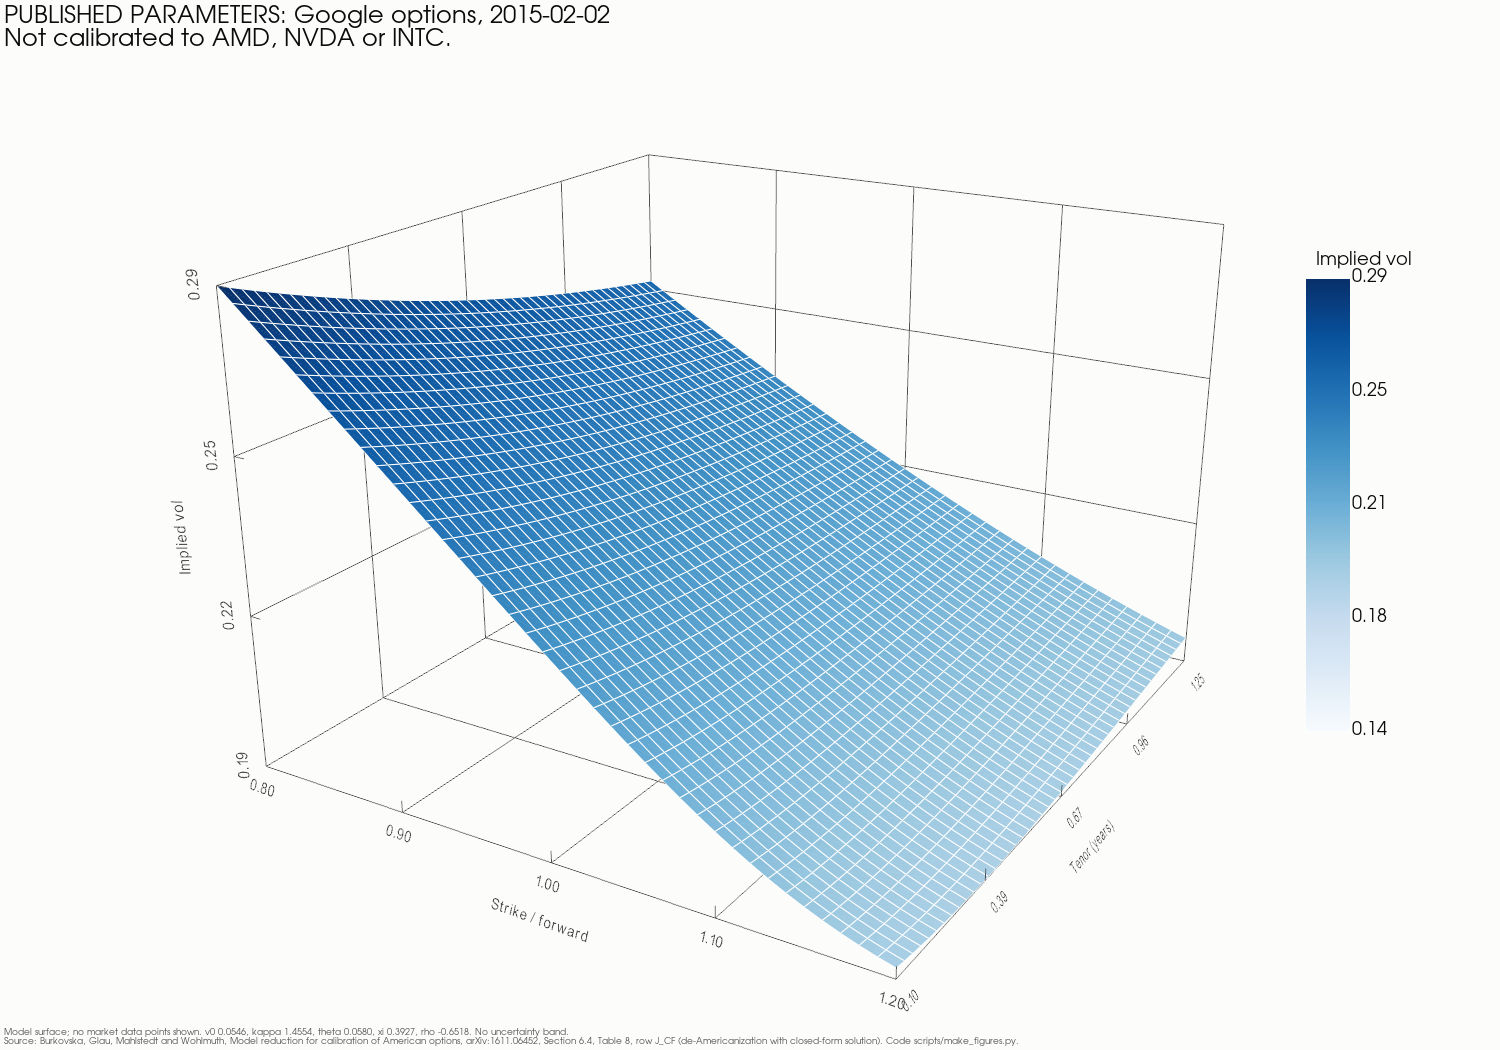
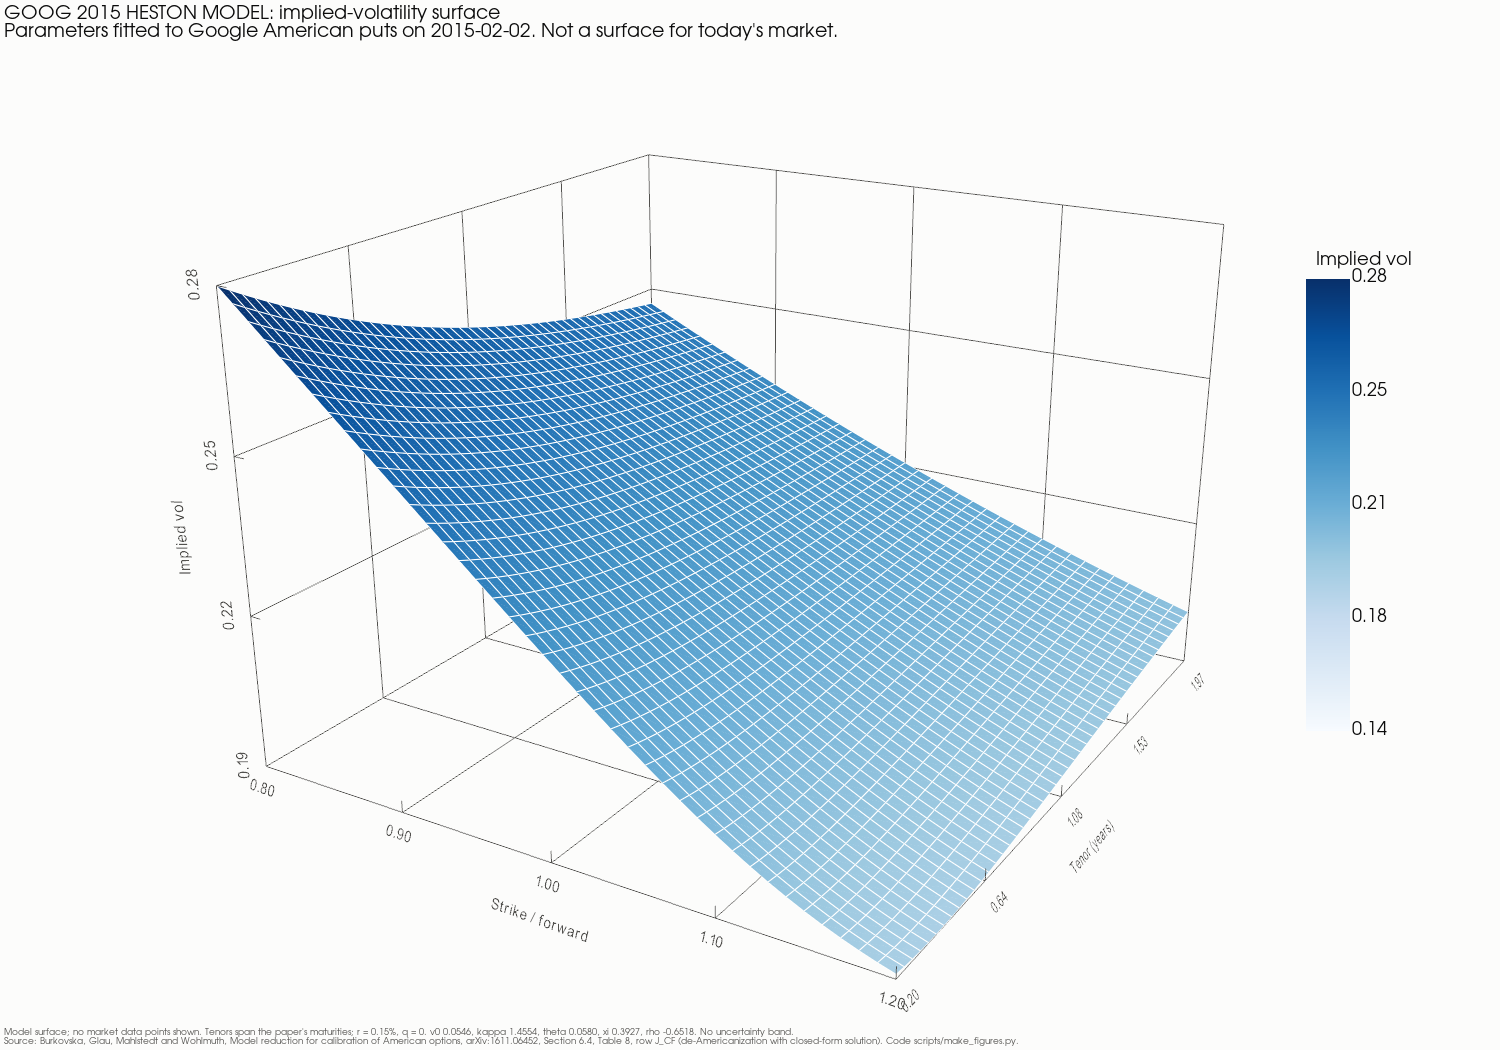
Add NVDA and INTC calibration configs and the GOOG 2015 surface
Spec v1.9 defines the GOOG 2015 surface. A redirected calibration no
longer overwrites the reported grid.

diff --git a/scripts/make_figures.py b/scripts/make_figures.py
@@ -227,12 +227,12 @@ def newest_comparison(run_name, results_root):
     return files[-1] if files else None
 
 
-def render_surface(params, r, q, heading, footnote, path):
+def render_surface(params, r, q, heading, footnote, path, tenor_low=0.10, tenor_high=1.25):
     """PyVista 3D surface of the model implied volatility. Model values only."""
     import pyvista as pv
 
     k_over_f = np.linspace(0.80, 1.20, 41)
-    tenors = np.linspace(0.10, 1.25, 47)
+    tenors = np.linspace(tenor_low, tenor_high, 47)
     vols = np.zeros((len(tenors), len(k_over_f)))
     for j, tenor in enumerate(tenors):
         k_over_s = k_over_f * np.exp((r - q) * tenor)
@@ -241,7 +241,7 @@ def render_surface(params, r, q, heading, footnote, path):
     # The geometry is drawn in a unit box so the surface is readable; the axis labels
     # below show the true values, and the colour scale uses the true implied volatility.
     low, high = float(vols.min()), float(vols.max())
-    x, y = np.meshgrid((k_over_f - 0.80) / 0.40, (tenors - 0.10) / 1.15)
+    x, y = np.meshgrid((k_over_f - 0.80) / 0.40, (tenors - tenor_low) / (tenor_high - tenor_low))
     grid = pv.StructuredGrid(x, y, 0.7 * (vols - low) / max(high - low, 1e-6))
     # Read the colour values back from the points, so they cannot be misordered against the geometry
     grid["Implied volatility"] = low + grid.points[:, 2] / 0.7 * (high - low)
@@ -252,7 +252,8 @@ def render_surface(params, r, q, heading, footnote, path):
                      show_edges=True, edge_color="#ffffff", line_width=0.4, lighting=False,
                      scalar_bar_args={"title": "Implied vol", "color": INK, "n_labels": 5, "fmt": "%.2f",
                                       "vertical": True, "position_x": 0.87, "position_y": 0.3})
-    plotter.show_bounds(axes_ranges=[0.80, 1.20, 0.10, 1.25, low, high], xtitle="Strike / forward", ytitle="Tenor (years)",
+    plotter.show_bounds(axes_ranges=[0.80, 1.20, tenor_low, tenor_high, low, high],
+                        xtitle="Strike / forward", ytitle="Tenor (years)",
                         ztitle="Implied vol", color=MUTED, font_size=12, grid="back", location="outer", n_xlabels=5,
                         n_ylabels=5, n_zlabels=4, fmt="%.2f")
     plotter.camera_position = [(1.85, -1.75, 1.35), (0.5, 0.5, 0.3), (0, 0, 1)]
@@ -297,13 +298,14 @@ def published_surface_figure(comparison_file, results_root, out_dir):
         return []
     p = document["params"]
     source = document["inputs"][0]
-    heading = ("PUBLISHED PARAMETERS: Google options, 2015-02-02\n"
-               "Not calibrated to AMD, NVDA or INTC.")
-    footnote = (f"Model surface; no market data points shown. v0 {p['v0']:.4f}, kappa {p['kappa']:.4f}, theta {p['theta']:.4f}, "
+    heading = ("GOOG 2015 HESTON MODEL: implied-volatility surface\n"
+               "Parameters fitted to Google American puts on 2015-02-02. Not a surface for today's market.")
+    footnote = (f"Model surface; no market data points shown. Tenors span the paper's maturities; r = 0.15%, q = 0. "
+                f"v0 {p['v0']:.4f}, kappa {p['kappa']:.4f}, theta {p['theta']:.4f}, "
                 f"xi {p['xi']:.4f}, rho {p['rho']:.4f}. No uncertainty band.\n"
                 f"Source: {source['citation']}, {source['table_or_page']}. Code {CODE}.")
     path = out_dir / "surface_google_published.png"
-    render_surface(p, document["r"], document["q"], heading, footnote, path)
+    render_surface(p, 0.0015, 0.0, heading, footnote, path, tenor_low=0.20, tenor_high=1.97)
     return [{"claim_id": "fig_surface_google_published", "location": "figure", "artifact_type": "figure",
              "run_id": document["run_name"], "result_path": relative(comparison_file, results_root),
              "json_pointer": "/params/kappa", "check_ids": "V-02"}]

diff --git a/scripts/run.py b/scripts/run.py
@@ -41,7 +41,7 @@ from hestonpricer.lsmc import price_bermudan
 from hestonpricer.simulate import simulate
 from hestonpricer.tree import crr_price
 
-SPEC_VERSION = "1.8"
+SPEC_VERSION = "1.9"
 DATA_CONTRACT_VERSION = "0.6"
 RAW_IV_MARKET = ROOT / "data" / "nvda_amd_intc_IV_Oct13-15.csv"
 RAW_IV_SYNTHETIC = ROOT / "tests" / "fixtures" / "synthetic_raw_iv.csv"
@@ -397,8 +397,9 @@ def run_calibrate(cfg, results_root, root_given):
     assert_all_finite(document)
     (results_root / "calibration.json").write_text(json.dumps(document, indent=2))
 
-    # The Restricted grid is written only in market mode, and only under data/
-    if market and grid is not None:
+    # The Restricted grid is written only in market mode, only under data/, and only for
+    # the default results location, so a redirected run cannot overwrite the reported grid
+    if market and grid is not None and not root_given:
         GRID_FILE.parent.mkdir(parents=True, exist_ok=True)
         grid[["symbol", "date", "strike", "expiration", "call_put", "iv"]].to_parquet(GRID_FILE)
 

diff --git a/tests/test_units.py b/tests/test_units.py
@@ -328,7 +328,7 @@ def test_run_writes_the_required_files_and_fields(tmp_path):
     assert result["units"] == "fraction_of_initial_spot" and result["data_mode"] == "synthetic"
     assert len(result["diagnostics"]["exercise_fraction_by_date"]) == 50
     manifest = json.loads((run_dir / "manifest.json").read_text())
-    assert manifest["spec_version"] == "1.8" and manifest["data_contract_version"] == "0.6"
+    assert manifest["spec_version"] == "1.9" and manifest["data_contract_version"] == "0.6"
 
 
 def test_compare_writes_each_comparison(tmp_path):

diff --git a/SPEC.md b/SPEC.md
@@ -4,7 +4,7 @@
 |---|---|
 | **Project** | ENSF 620 Fall 2026 final project (individual) |
 | **Owner** | Jared Crebo |
-| **Spec version** | 1.8 (2026-11-08) |
+| **Spec version** | 1.9 (2026-11-08) |
 | **Companion document** | `DATA_CONTRACT.md` v0.6 |
 | **Audience** | Engineers and AI coding agents writing implementation code and automated tests |
 
@@ -671,7 +671,7 @@ A run with `reported: true` MUST refuse a dirty working tree (`E_DIRTY_TREE`). C
 ```json
 {
   "schema_version": 1,
-  "spec_version": "1.8",
+  "spec_version": "1.9",
   "data_contract_version": "0.6",
   "run_id": "core_amd_production-1a2b3c4d",
   "git_commit": "<full hash>",
@@ -810,7 +810,7 @@ This is the plan for the figures in the report and the eight-minute presentation
 | ID | Figure | Source | Class | Report | Slides |
 |---|---|---|---|---|---|
 | VZ-1a | PyVista 3D surface of the rejected full AMD fit, labelled as rejected | `rejected_full_fit` in `results/calibration.json` | Internal | Yes | Yes |
-| VZ-1b | PyVista 3D surface of the published Google parameters | Parameters in the comparison summary | Public | Yes | Yes |
+| VZ-1b | PyVista 3D surface of the GOOG 2015 Heston model: the published Google parameters fitted on 2015-02-02 | Parameters in the comparison summary | Public | Yes | Yes |
 | VZ-2 | Monte Carlo European vs. semi-analytic prices over the V-03 grid of strikes and maturities, with the difference in SE | Comparison run on the reported parameters | Internal | Yes | Yes |
 | VZ-3 | LSMC Bermudan vs. CRR tree on the V-04 cases | Comparison run | Public | Yes | Yes |
 | VZ-4 | Heston Bermudan, European, and constant-volatility Bermudan across strikes | Comparison run on the reported parameters | Internal | Yes | No |
@@ -822,7 +822,8 @@ This is the plan for the figures in the report and the eight-minute presentation
 **VZ-1 requirements.**
 
 - Applies to VZ-1a and VZ-1b. VZ-1a is the only AMD surface available, because the market fit ended at ladder step 3 (§6.7). It MUST carry the word REJECTED and the failed limit in the figure itself, and it MUST NOT be used for pricing.
-- Evaluate `sigma_Heston` with `model_implied_vols` on a dense regular grid of `K/F` in `[0.80, 1.20]` and tenor in `[0.10, 1.25]`, using the stated parameters only.
+- Evaluate `sigma_Heston` with `model_implied_vols` on a dense regular grid of `K/F` in `[0.80, 1.20]`, using the stated parameters only. Tenor is `[0.10, 1.25]` for VZ-1a. For VZ-1b it is `[0.20, 1.97]`, the maturity range of the source paper's Google options, with `r = 0.15%` and `q = 0` as in that paper.
+- VZ-1b MUST state that its parameters date from 2015-02-02 and that it is not a surface for today's market.
 - Show `K/F`, tenor, and implied volatility as labelled axes, with height encoding implied volatility and a single-hue colour ramp with a labelled scale, so the figure does not rely on colour alone.
 - Render off-screen with PyVista to a PNG for the report and slides.
 - Label it as a model surface and state the source of its parameters and their date.
@@ -1167,3 +1168,4 @@ Citations follow the proposal unless marked.
 | 1.6 | 2026-11-08 | Primary question revised to GOOG under the published parameters (§2.1, §17.3); Massive dataset replaced to add GOOG and GOOGL; four-ticker correlations allowed before G1 (§5.4); `q_GOOG = 0`; OD-2 and OD-11 | Owner instruction, after the AMD fit failed acceptance. No pass rule, tolerance, seed, filter, or default changed | Yes. The AMD fit and the published-parameter price had been viewed; this MUST be disclosed in the report (§1.3) |
 | 1.7 | 2026-11-08 | V-06 benchmark changed from Clarke and Parrott to Ikonen and Toivanen; V-01 and V-06 values entered by the agent on the owner's instruction (§15); market comparison contract (§8.4, §3); one named out-of-hours bar omitted (`DATA_CONTRACT.md` §1.1) | Clarke and Parrott's prices at spots 10 to 12 are 2% to 11% above four later independent studies, so a correct engine could fail V-06 against them. Decided by the owner before V-06 had been run. No pass rule, tolerance, seed, or filter changed | V-06 had not been run. Other results had been viewed; none is affected by this change |
 | 1.8 | 2026-11-08 | Market comparison (§8.4) uses `q = 0.0031` from Alphabet's declared dividend | Owner instruction. No pass rule, tolerance, seed, or filter changed | Yes. The `q = 0` comparison had been viewed; the report MUST disclose this |
+| 1.9 | 2026-11-08 | VZ-1b (§12.9) defined as the GOOG 2015 Heston model surface over the source paper's maturity range | Owner instruction. No pass rule, tolerance, seed, or filter changed | Yes. The figure is drawn from parameters already viewed and does not change them |

diff --git a/AI_USE.md b/AI_USE.md
@@ -569,3 +569,25 @@ All points use daily exercise, 100,000 paths and 2 sub-steps. This replaces the 
 **Author review status:**
 - [ ] Decision on the stored Cboe quote
 - [ ] Source of GOOG option data for calibration
+
+### Entry 20 — 2026-11-08 — Finding a 2015 Google put to compare with
+
+**Tool:** Claude Code, Claude Opus 5.5.
+
+**Author's request:** Find a put contract from 2015 to compare with, since the GOOG parameters come from 2015.
+
+**Finding:** Burkovska et al., arXiv:1611.06452, Appendix A, Table 10, publishes 401 American put prices on Google from 2015-02-02 with S0 = 523.755, the same data the parameters were fitted to.
+
+**Scratch check, not committed and not a reported result:** nine puts priced with the published parameters, r = 0.15% and q = 0, in the AI's scratch directory. Differences ranged from -2.2% to +2.5%; the $525 put with T = 0.9507 was $45.25 ± $0.09 against $46.05. This is an in-sample comparison, because the parameters were fitted to these prices.
+
+**Repository:** no file other than this log changed for this task.
+
+### Entry 21 — 2026-11-08 — GOOG 2015 volatility surface
+
+**Tool:** Claude Code, Claude Opus 5.5.
+
+**Author's request:** Plot the volatility surface for the 2015 GOOG model and add it to `SPEC.md`.
+
+**What the AI did:** `scripts/make_figures.py` now draws VZ-1b over tenors 0.20 to 1.97 years, labelled as the GOOG 2015 Heston model. `SPEC.md` v1.9 defines the figure. It shows model values only.
+
+**Not committed:** these changes stay uncommitted while the author's decision on the stored Cboe quote is pending.
